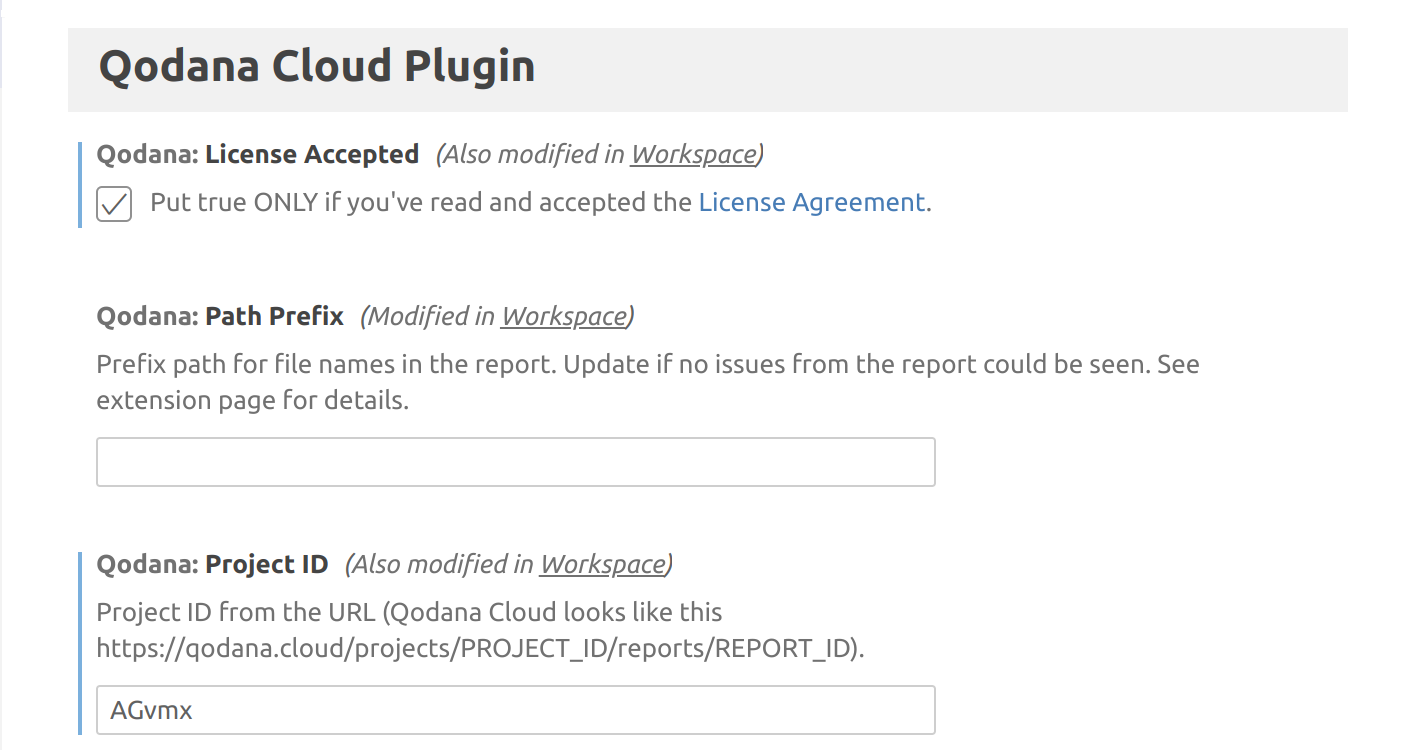
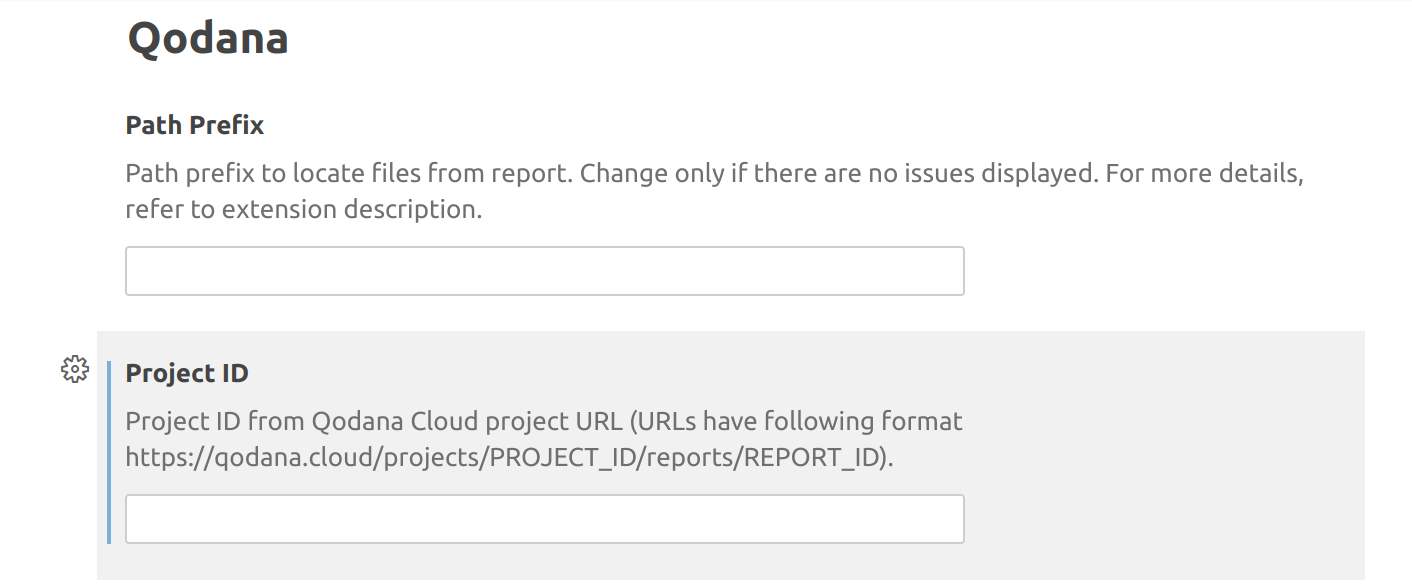
QD-7043 The second review step

diff --git a/topics/vscode.md b/topics/vscode.md
@@ -4,16 +4,17 @@ Visual Studio Code is a source code editor available for Windows, macOS and Linu
 JavaScript, TypeScript and Node.js and provides extensions for other languages and runtimes 
 (such as C++, C#, Java, Python, PHP, Go, .NET).
 
-This section shows how to use Visual Studio Code for overviewing %product% reports from
+This section shows how to use Visual Studio Code version 1.81 and later for overviewing %product% reports from
 [Qodana Cloud](cloud-about.xml).
 
 ## Before you start
 
 Make sure that you have a Qodana Cloud [project](cloud-projects.xml), and this project has at 
-least one inspection [report](cloud-overview-reports.xml) related to the project on opened by Visual Studio Code. 
+least one inspection [report](cloud-overview-reports.xml) related to the project opened by Visual Studio Code. Also,
+make sure that you have accepted the [%product% Terms of Service](https://www.jetbrains.com/legal/docs/agreements/qodana/license/).
 
-Check whether Java is available on your machine running the `java -version` command. If necessary, install Java on your 
-local machine.  
+Finally, check whether Java 11 or never is available on your machine running the `java -version` command. If necessary, 
+install Java on your local machine.  
 
 ## Configure the plugin
 
@@ -29,26 +30,62 @@ The configuration section contains the following options:
 <td>Description</td>
 </tr>
 <tr>
-<td>License Accepted</td>
-<td>Confirms that you have accepted the <a href="https://www.jetbrains.com/legal/docs/agreements/qodana/license/">%product% Terms of Service</a></td>
+<td>Path Prefix</td>
+<td><p>In case the report does not appear in the <menupath>PROBLEMS</menupath> tab, you can override the project path prefix. 
+Here is the rule how the full path to project file is composed:</p>
+<p>Full Path = Workspace + Path Prefix + Path in SARIF</p>
+<p>Here are examples how to define the correct path prefix:</p>
+<table>
+<tr>
+<td>Full path</td>
+<td>Path in SARIF</td>
+<td>Workspace</td>
+<td>Path prefix</td>
 </tr>
 <tr>
-<td>Path Prefix</td>
-<td>If necessary, you can specify the correct project prefix. Suppose that in Visual Studio Code you opened a project contained in the <code>/foo</code> directory,
-and this directory contains the <code>bar</code> subdirectory.
-In this case, if the %product% report contains the <code>/bar/&lt;filename&gt;</code> file paths, then the <code>foo</code> prefix is required. If  
-the %product% report specifies only file names without directories, then <code>/foo/bar</code> has to be prefixed.
+<td>/foo/bar/baz/file</td>
+<td>baz/file</td>
+<td>/foo/bar</td>
+<td>(empty, no value)</td>
+</tr>
+<tr>
+<td>/foo/bar/baz/file</td>
+<td>baz/file</td>
+<td>/foo/bar/baz</td>
+<td>..</td>
+</tr>
+<tr>
+<td>/foo/bar/baz/file</td>
+<td>file</td>
+<td>/foo/bar</td>
+<td>baz</td>
+</tr>
+</table>
+<p>You can refer to the Qodana Cloud report within the Files section to see how the <menupath>Path in SARIF</menupath> is set.</p>
+<p>Feel free to commit the <code>.vscode/settings.json</code> to your repository to share the Qodana settings with your team!</p>
 </td>
 </tr>
 <tr>
 <td>Project ID</td>
-<td>The ID contained in your Qodana Cloud project URL. This URL and has the following structure: 
+<td><p>The ID contained in your Qodana Cloud project URL. This URL and has the following structure: 
 <code>https://qodana.cloud/projects/PROJECT_ID/reports/REPORT_ID</code>. From this URL, use only <code>PROJECT_ID</code>.
-For example, from the URL <code>https://qodana.cloud/projects/AGvmx/reports/EDKYd</code> you will need <code>AGvmx</code>.
+For example, from the URL <code>https://qodana.cloud/projects/AGvmx/reports/EDKYd</code> you will need <code>AGvmx</code>.</p>
+<p>Alternatively, you can get the Project ID value by opening the project from the 
+<a href="ui-overview.md" anchor="ui-overview-actual-problems">Qodana Cloud report</a> using the 
+<menupath>Open file in ...</menupath> button and choosing Visual Studio Code as the tool for opening. </p>
 </td>
 </tr>
 </table>
 
+In the status bar of the Visual Studio Code UI, you can find the **Qodana** icon. This icon can have the following states:
+
+* **Settings are not valid** means that you need to configure your plugin. To do it, you can click this icon, which will 
+redirect you to the plugin configuration page.
+* **Not attached to report** means that you have configured the plugin, but it did not yet download the report. To 
+continue, you need to authorize in Qodana Cloud.
+* **Attached to report** means that the report was downloaded from Qodana Cloud, and it should be available for 
+[overviewing](#Overview+inspection+reports) in the Visual Studio Code UI. 
+* 
 ## Overview inspection reports
 
 Once configured, the plugin connects and downloads the latest %product% report from Qodana Cloud, and you can overview 
@@ -57,3 +94,7 @@ it in the **PROBLEMS** tab of Visual Studio Code.
 <img src="vscode-problems-tab.png" dark-src="vscode-problems-tab_dark.png" width="706" alt="The PROBLEMS in VS Code" animated="true" border-effect="line"/>
 
 To disconnect from Qodana Cloud, you can apply the **Qodana: Reset authentication** command. 
+
+To reset all settings and credentials, you can use the **Qodana: Reset all settings** command.
+
+ 
